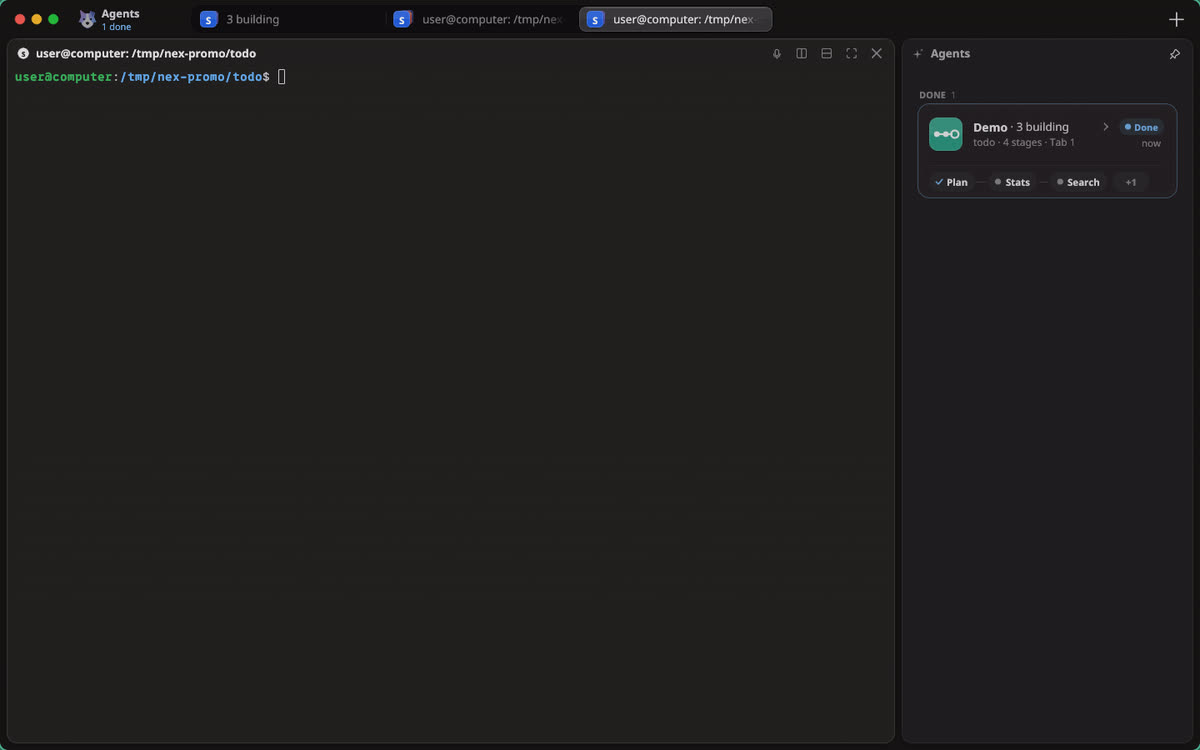
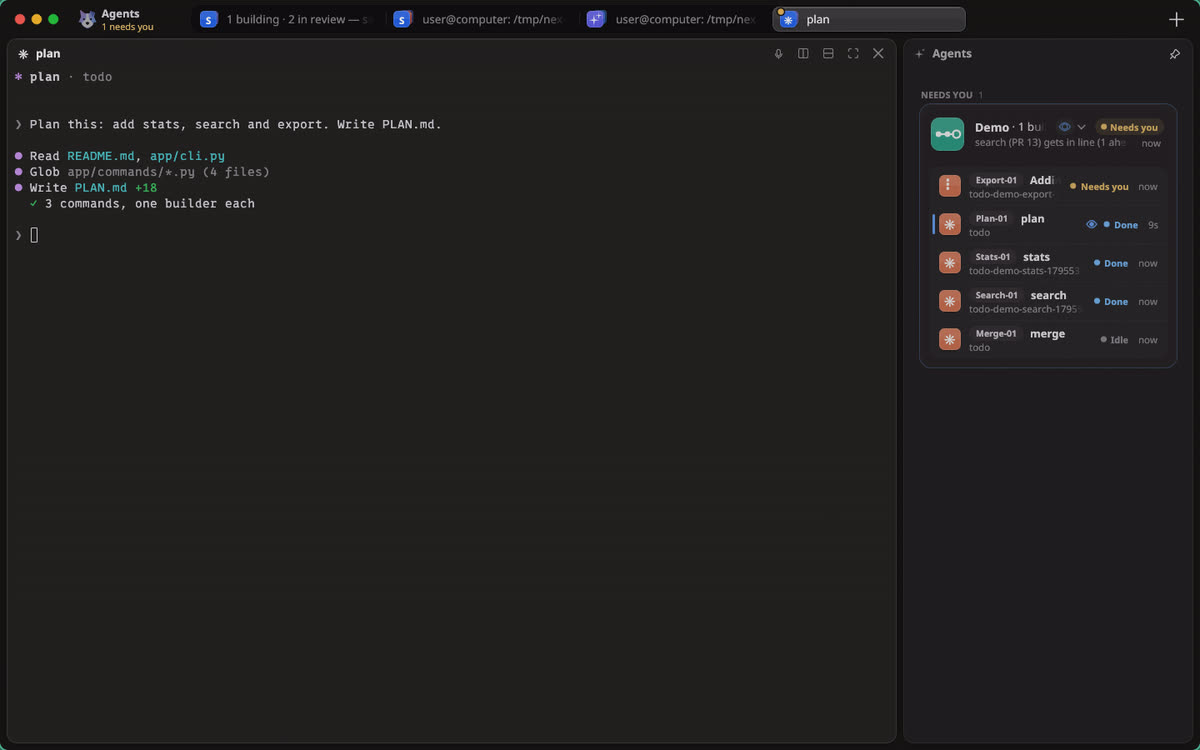
Hero poster, social card and descriptions follow the new promo (#163)

diff --git a/site/index.html b/site/index.html
@@ -29,12 +29,12 @@
     <meta property="og:image" content="https://jramirez-codes.github.io/nex/og.jpg" />
     <meta property="og:image:width" content="1200" />
     <meta property="og:image:height" content="630" />
-    <meta property="og:image:alt" content="nex over ssh with the Agents pane pinned beside a pipeline of agents" />
+    <meta property="og:image:alt" content="nex over ssh, inside one agent of a pipeline, with the Agents pane pinned beside it showing the team" />
     <meta name="twitter:card" content="summary_large_image" />
     <meta name="twitter:title" content="nex: Rust GPU terminal for Linux, macOS, Android &amp; AI agents" />
     <meta name="twitter:description" content="Free, open-source GPU terminal in Rust for Linux, macOS and Android (iOS beta), with splits, files, git, SSH and an Agents pane for Claude Code and Codex." />
     <meta name="twitter:image" content="https://jramirez-codes.github.io/nex/og.jpg" />
-    <meta name="twitter:image:alt" content="nex over ssh with the Agents pane pinned beside a pipeline of agents" />
+    <meta name="twitter:image:alt" content="nex over ssh, inside one agent of a pipeline, with the Agents pane pinned beside it showing the team" />
 
     <link rel="preload" as="image" href="/nex/demo/hero.jpg" fetchpriority="high" />
 
@@ -69,7 +69,7 @@
         "description": "A short tour of nex, the GPU-accelerated Rust terminal: split panes, the file explorer, SSH and the Agents pane watching Claude Code and Codex.",
         "thumbnailUrl": "https://jramirez-codes.github.io/nex/demo/promo.jpg",
         "contentUrl": "https://jramirez-codes.github.io/nex/demo/promo.mp4",
-        "uploadDate": "2026-11-16",
+        "uploadDate": "2026-11-24",
         "duration": "PT10S"
       }
     </script>

diff --git a/site/src/sections/Hero.tsx b/site/src/sections/Hero.tsx
@@ -65,7 +65,7 @@ export default function Hero() {
           <DemoVideo
             className="hero-shot"
             name="hero"
-            label="nex over ssh: a pipeline of agents starts and the Agents pane is pinned beside it; a new tab opens on the same server with the git Changes pane, another with a file explorer, and the pinned pane follows back to the run"
+            label="nex over ssh: a pipeline of agents starts and the Agents pane is pinned beside it; a new tab opens on the same server with the git Changes pane, another with a file explorer, and from the pinned Agents pane the run's team opens and one of its agents is jumped into, its row marked as the one on screen"
             width={1200}
             height={750}
             eager

diff --git a/tools/demo/make_gifs.py b/tools/demo/make_gifs.py
@@ -29,6 +29,10 @@ WIDTH = {"tour": 1200, "hero": 1200}
 # Clips another script makes from the same markers (promo.py composites `promo`).
 SKIP = {"promo"}
 DEFAULT_WIDTH = 1000
+# Where in a clip its poster frame is taken, 0..1. The hero ends on its best frame: inside
+# one of the pipeline's agents, the team open beside it.
+POSTER_AT = {"hero": 1.0}
+DEFAULT_POSTER_AT = 0.6
 # Hyprland's window rounding in the take, plus its antialiased fringe, in take pixels.
 CORNER_RADIUS = 13
 # What the corner squares are painted before they go transparent: the window background near
@@ -73,8 +77,9 @@ def make_mp4(take: Path, out: Path, start: float, end: float, width: int) -> Non
 
 
 def make_poster(take: Path, out: Path, start: float, end: float, width: int) -> None:
-    """A frame 60% of the way in, once the clip has something on screen."""
-    at = start + (end - start) * 0.6
+    """A frame 60% of the way in, once the clip has something on screen (or where POSTER_AT
+    says; never the very end, where there may be no frame left to read)."""
+    at = min(start + (end - start) * POSTER_AT.get(out.stem, DEFAULT_POSTER_AT), end - 0.1)
     subprocess.run(["ffmpeg", "-loglevel", "error", "-y", "-ss", f"{at:.3f}", "-i", str(take),
                     "-vframes", "1", "-vf", f"scale={width}:-2:flags=lanczos", "-q:v", "4", str(out)],
                    check=True)
